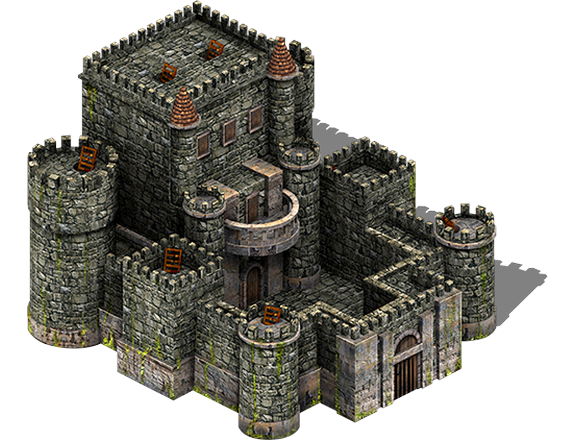
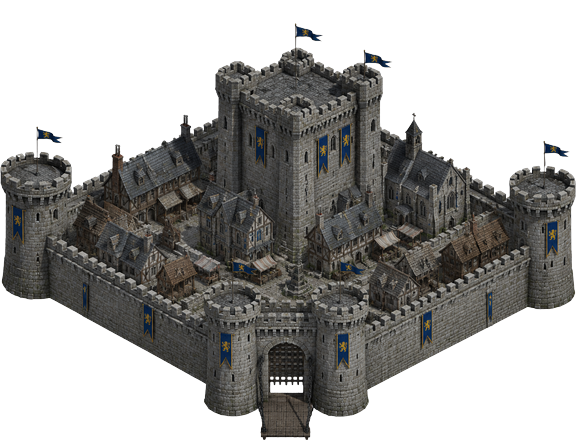
refactor: update town center and wall assets with new canva rework and remove feudal castle dependency

diff --git a/apps/client/src/game/render/assetManifest.test.ts b/apps/client/src/game/render/assetManifest.test.ts
@@ -90,17 +90,15 @@ describe('asset pipeline lock', () => {
 describe('building health bar heights', () => {
   const lock = readLock();
   const MIGRATED: Record<string, keyof typeof SHEET_OFFSET_Y> = {
-    'building.town-center': 'TOWN_CENTER',
     'building.tower': 'TOWER',
     'building.barracks': 'BARRACKS',
     'building.stable': 'STABLE',
     'building.archery-range': 'ARCHERY_RANGE',
     'building.house': 'HOUSE'
-    // The three economy camps (LUMBER_CAMP, MILL, MINING_CAMP) are
-    // project-original generated art pinned as `legacy` in the lock, so there is
-    // no measured `topInset` entry here to recompute their bars from; their
-    // `HP_BAR_Y` numbers are measured from the shipped 256x220 PNGs by
-    // `scripts/generate_buildings_assets.py`.
+    // `TOWN_CENTER` (Canva rework 576x440) and the three economy camps
+    // (LUMBER_CAMP, MILL, MINING_CAMP) are project-original art pinned as
+    // `legacy` in the lock, so there is no measured `topInset` entry here to
+    // recompute their bars from.
   };
   // `HP_BAR_Y` is hand-maintained, but its value is derivable: the bar sits 8 px
   // above the first visible row of art. Recomputing it from the lock means a
@@ -116,6 +114,21 @@ describe('building health bar heights', () => {
       expect(buildingHpBarY(buildingType)).toBe(expected);
     });
   }
+
+  it('TOWN_CENTER sits above the 576x440 Canva rework artwork', () => {
+    const townCenterPath = join(REPO_ROOT, 'apps/client/public/assets/buildings/town_center.png');
+    expect(existsSync(townCenterPath)).toBe(true);
+    const { width, height } = pngSize(townCenterPath);
+    expect({ width, height }).toEqual({ width: 576, height: 440 });
+
+    const art = buildingArt('TOWN_CENTER', () => true);
+    expect(art.textureKey).toBe('building_TOWN_CENTER');
+    expect(art.offsetY).toBe(SHEET_OFFSET_Y.TOWN_CENTER);
+
+    const measuredTopInset = 23;
+    const expectedHpBarY = SHEET_OFFSET_Y.TOWN_CENTER! - height / 2 + measuredTopInset - 8;
+    expect(buildingHpBarY('TOWN_CENTER')).toBe(expectedHpBarY);
+  });
 });
 
 /**
@@ -165,6 +178,10 @@ describe('house level invariance', () => {
 
 describe('wall art', () => {
   it('reuses the citadel masonry and aligns its base with the tile', () => {
+    const wallPath = join(REPO_ROOT, 'apps/client/public/assets/citadel/wall.png');
+    expect(existsSync(wallPath)).toBe(true);
+    expect(pngSize(wallPath)).toEqual({ width: 128, height: 184 });
+
     const art = buildingArt('WALL', () => true);
     expect(art.textureKey).toBe('citadel_wall');
     expect(art.offsetY).toBe(-60);

diff --git a/apps/client/src/game/scenes/WorldScene.ts b/apps/client/src/game/scenes/WorldScene.ts
@@ -537,7 +537,7 @@ export class WorldScene extends Phaser.Scene {
     // v=27: the three economy camps (lumber camp, mill, mining camp) were
     // regenerated so the lumber camp no longer reuses the stable sprite.
     // Bump the key whenever a PNG under public/assets/buildings or /resources changes.
-    const v = 'v=27';
+    const v = 'v=28';
     this.load.image('building_TOWN_CENTER', `/assets/buildings/town_center.png?${v}`);
     this.load.image('building_BARRACKS', `/assets/buildings/barracks.png?${v}`);
     // MIL-01: both military branches now ship their own 400x320 sheet. The
@@ -593,7 +593,7 @@ export class WorldScene extends Phaser.Scene {
 
     // Citadel stone: floor tile, wall block, gatehouse and its portcullis.
     // Built by `scripts/process_citadel_assets.py`; bump when a PNG changes.
-    const cv = 'v=7';
+    const cv = 'v=8';
     this.load.image('citadel_floor', `/assets/citadel/floor.png?${cv}`);
     this.load.image('citadel_wall', `/assets/citadel/wall.png?${cv}`);
     this.load.image('citadel_gate', `/assets/citadel/gate.png?${cv}`);

diff --git a/apps/client/src/components/buildingThumbnails.ts b/apps/client/src/components/buildingThumbnails.ts
@@ -14,7 +14,7 @@ import type { BuildingType } from '@chien-quoc/shared';
  * file that only 404s.
  */
 export const BUILDING_THUMBNAIL: Partial<Record<BuildingType, string>> = {
-  TOWN_CENTER: '/assets/buildings/town_center.png?v=3',
+  TOWN_CENTER: '/assets/buildings/town_center.png?v=4',
   BARRACKS: '/assets/buildings/barracks.png?v=3',
   STABLE: '/assets/buildings/stable.png?v=3',
   ARCHERY_RANGE: '/assets/buildings/archery_range.png?v=3',

diff --git a/apps/client/src/game/render/buildingArt.ts b/apps/client/src/game/render/buildingArt.ts
@@ -148,7 +148,8 @@ const DEFAULT_ART = { textureKey: 'b_town_center', offsetY: -130, hpBarY: -203 }
  * (measured by `scripts/process_generated_assets.py --check`).
  */
 const HP_BAR_Y: Partial<Record<BuildingType, number>> = {
-  TOWN_CENTER: -358,
+  // Canva rework 576x440 sheet: -130 - 440/2 + topInset 23 - 8.
+  TOWN_CENTER: -335,
   // Bleed's Galata Tower: -160 - 360/2 + topInset 9 - 8.
   TOWER: -339,
   BARRACKS: -260,

diff --git a/scripts/rebuild_canva_wall_town.py b/scripts/rebuild_canva_wall_town.py
@@ -6,19 +6,17 @@ Inputs live in ``scripts/raw_downloads/canva_rework``:
 * ``wall_cap_raw.png``  -- top-down stone paving, mapped onto the walkway cap.
 * ``town_center_wide_mat_raw.png`` -- background-removed 4:3 castle render.
 
-Outputs are *new* files next to the shipping art, so the old sprites stay
-comparable:
+Outputs overwrite the shipped citadel wall and town-centre sprites:
 
-* ``apps/client/public/assets/citadel/wall_v2.png``
-* ``apps/client/public/assets/buildings/town_center_v2.png``
+* ``apps/client/public/assets/citadel/wall.png``
+* ``apps/client/public/assets/buildings/town_center.png``
 
 Nothing is drawn here. The wall is delegated to
 ``process_citadel_assets.build_wall`` -- the same geometry, outline and shading
 ``CitadelLayer`` measures against -- and validated with
 ``process_citadel_assets.wall_failures``. The castle goes through the ``ops``
-helpers ``scripts/assets/build.py`` already uses, with the canvas size, the
-palette luminance target and the anchor read from that target's manifest entry
-instead of being restated here.
+helpers ``scripts/assets/build.py`` already uses, matching the shipped
+576x440 canvas, 74.8 palette luminance target and bottom-center anchor.
 
 The Canva stone is shot at 1264 px and mapped onto 64 px faces, so its grain
 aliases into speckle. A pre-blur stands in for the missing mip level, and
@@ -27,7 +25,6 @@ neutral citadel floor.
 """
 
 import argparse
-import json
 import sys
 from pathlib import Path
 
@@ -44,15 +41,16 @@ import process_citadel_assets as pca  # noqa: E402
 RAW_DIR = ROOT / "scripts" / "raw_downloads" / "canva_rework"
 WORK_DIR = ROOT / "scripts" / "out" / "canva_wall"
 ASSET_ROOT = ROOT / "apps" / "client" / "public" / "assets"
-MANIFEST = ROOT / "scripts" / "assets" / "manifest.json"
 
 FACE_SOURCE = RAW_DIR / "wall_face_raw.png"
 CAP_SOURCE = RAW_DIR / "wall_cap_raw.png"
 CASTLE_SOURCE = RAW_DIR / "town_center_wide_mat_raw.png"
 
-WALL_VARIANT_REL = Path("citadel") / "wall_v2.png"
-TOWN_VARIANT_REL = Path("buildings") / "town_center_v2.png"
-TOWN_TARGET_ID = "building.town-center"
+WALL_OUT_REL = Path("citadel") / "wall.png"
+TOWN_OUT_REL = Path("buildings") / "town_center.png"
+TOWN_CANVAS = (576, 440)
+TOWN_MATCH_LUM = 74.8
+TOWN_ANCHOR = "bottom-center"
 
 FACE_CROP = 360
 CAP_CROP = 512
@@ -81,58 +79,43 @@ def prepare_texture(source: Path, crop: int) -> Image.Image:
 
 
 def build_wall(face: Path, cap: Path) -> dict:
-    """Build and validate the wall variant against the shipped contract."""
+    """Build and validate the wall block against the shipped contract."""
     WORK_DIR.mkdir(parents=True, exist_ok=True)
     face_ready = WORK_DIR / "wall_face_prepared.png"
     cap_ready = WORK_DIR / "wall_cap_prepared.png"
     prepare_texture(face, FACE_CROP).save(face_ready)
     prepare_texture(cap, CAP_CROP).save(cap_ready)
 
-    built = pca.build_wall(face_ready, ASSET_ROOT, cap_source=cap_ready, rel=WALL_VARIANT_REL)
-    failures = pca.wall_failures(pca.measure(ASSET_ROOT / WALL_VARIANT_REL))
+    built = pca.build_wall(face_ready, ASSET_ROOT, cap_source=cap_ready, rel=WALL_OUT_REL)
+    failures = pca.wall_failures(pca.measure(ASSET_ROOT / WALL_OUT_REL))
     if failures:
-        raise SystemExit(f"{WALL_VARIANT_REL}: " + "; ".join(failures))
+        raise SystemExit(f"{WALL_OUT_REL}: " + "; ".join(failures))
     return built
 
 
-def town_center_spec() -> dict:
-    """Canvas, palette luminance and anchor of the shipped town centre."""
-    manifest = json.loads(MANIFEST.read_text())
-    target = manifest["targets"].get(TOWN_TARGET_ID)
-    if target is None:
-        raise SystemExit(f"{TOWN_TARGET_ID} is missing from {MANIFEST.relative_to(ROOT)}")
-    return {
-        "canvas": tuple(target["canvas"]),
-        "matchLum": target["op"].get("matchLum"),
-        "anchor": target["op"].get("anchor", "bottom-center"),
-    }
-
-
-def build_town_center(source: Path, spec: dict) -> dict:
+def build_town_center(source: Path) -> dict:
     """Crop, recolour, fit and anchor the castle like every building sheet."""
     art = ops.crop_to_alpha(ops.load_rgba(source))
-    gain = 1.0
-    if spec["matchLum"] is not None:
-        art, gain = ops.match_luminance(art, spec["matchLum"])
+    art, gain = ops.match_luminance(art, TOWN_MATCH_LUM)
 
-    scaled, scale = ops.fit(art, spec["canvas"])
-    sheet = ops.place(scaled, spec["canvas"], spec["anchor"])
+    scaled, scale = ops.fit(art, TOWN_CANVAS)
+    sheet = ops.place(scaled, TOWN_CANVAS, TOWN_ANCHOR)
 
     span, offset = ops.iso_base(sheet)
     if span > ops.ISO_BASE_MAX_SPAN or offset > ops.ISO_BASE_MAX_OFFSET:
         raise SystemExit(
-            f"{TOWN_VARIANT_REL}: base row reads as a flat wall "
+            f"{TOWN_OUT_REL}: base row reads as a flat wall "
             f"(span {span:.2f} > {ops.ISO_BASE_MAX_SPAN}, "
             f"offset {offset:.2f} > {ops.ISO_BASE_MAX_OFFSET})"
         )
     if ops.bottom_inset(sheet) != 0:
-        raise SystemExit(f"{TOWN_VARIANT_REL}: art does not sit on the canvas bottom row")
+        raise SystemExit(f"{TOWN_OUT_REL}: art does not sit on the canvas bottom row")
     for column in (0, sheet.width - 1):
         for row in (0, sheet.height - 1):
             if sheet.getpixel((column, row))[3] != 0:
-                raise SystemExit(f"{TOWN_VARIANT_REL}: canvas corner ({column}, {row}) is opaque")
+                raise SystemExit(f"{TOWN_OUT_REL}: canvas corner ({column}, {row}) is opaque")
 
-    target = ASSET_ROOT / TOWN_VARIANT_REL
+    target = ASSET_ROOT / TOWN_OUT_REL
     target.parent.mkdir(parents=True, exist_ok=True)
     sheet.save(target, "PNG", optimize=True)
     return {
@@ -160,7 +143,7 @@ def main() -> int:
     wall = build_wall(FACE_SOURCE, CAP_SOURCE)
     print(f"  {wall['name']:<18} {wall['size'][0]}x{wall['size'][1]} lum {wall['meanLum']:.1f}")
 
-    town_center = build_town_center(CASTLE_SOURCE, town_center_spec())
+    town_center = build_town_center(CASTLE_SOURCE)
     print(
         f"  {town_center['name']:<18} {town_center['size'][0]}x{town_center['size'][1]} "
         f"bbox {town_center['bbox']} lum {town_center['lum']:.1f} "

diff --git a/CREDITS.md b/CREDITS.md
@@ -127,22 +127,18 @@ the lowest opaque row past the `iso_base` gate after downscaling, so a 180 alpha
 floor trims that fringe before the crop and again after the fit. No artwork is
 redrawn.
 
-### Medieval Barracks, Medieval Stable, Medieval Archery Range and Castle — feudalwars
+### Medieval Barracks, Medieval Stable and Medieval Archery Range — feudalwars
 
 - **Author:** feudalwars (made for [Feudal Wars](https://feudalwars.net/))
 - **Source:** https://opengameart.org/content/medieval-barracks-isometric-25d,
   https://opengameart.org/content/medieval-stable-isometric-25d,
-  https://opengameart.org/content/medieval-archery-range-isometric-25d,
-  https://opengameart.org/content/western-european-castle-isometric-25d
+  https://opengameart.org/content/medieval-archery-range-isometric-25d
 - **License:** CC0 1.0 (public domain dedication — attribution not required,
   kept here for provenance)
 - **Used for:** `assets/buildings/barracks.png` (barracks),
-  `assets/buildings/stable.png` (stable), `assets/buildings/archery_range.png`
-  (archery range) and `assets/buildings/town_center.png` (castle).
+  `assets/buildings/stable.png` (stable) and `assets/buildings/archery_range.png`
+  (archery range).
 
-**Changes made.** All four are cropped to alpha, scaled to the client's canvas
-and luminance-matched; the castle stands in for the town centre because the set
-has no town-hall building. The castle is also mirrored
-horizontally so its gate faces the direction the client's isometric camera
-looks from; the other buildings are unmodified apart from crop/scale.
+**Changes made.** All three are cropped to alpha, scaled to the client's canvas
+and luminance-matched; otherwise unmodified apart from crop/scale.
 
